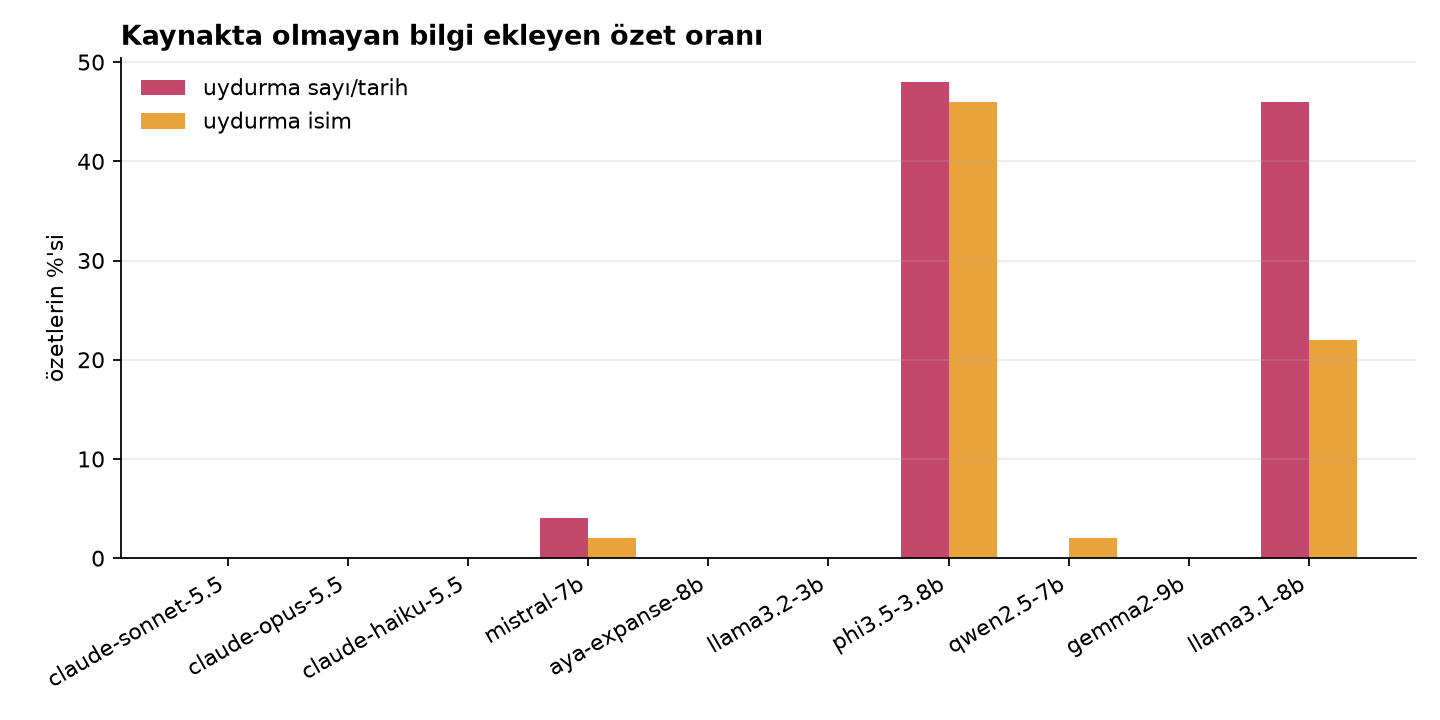
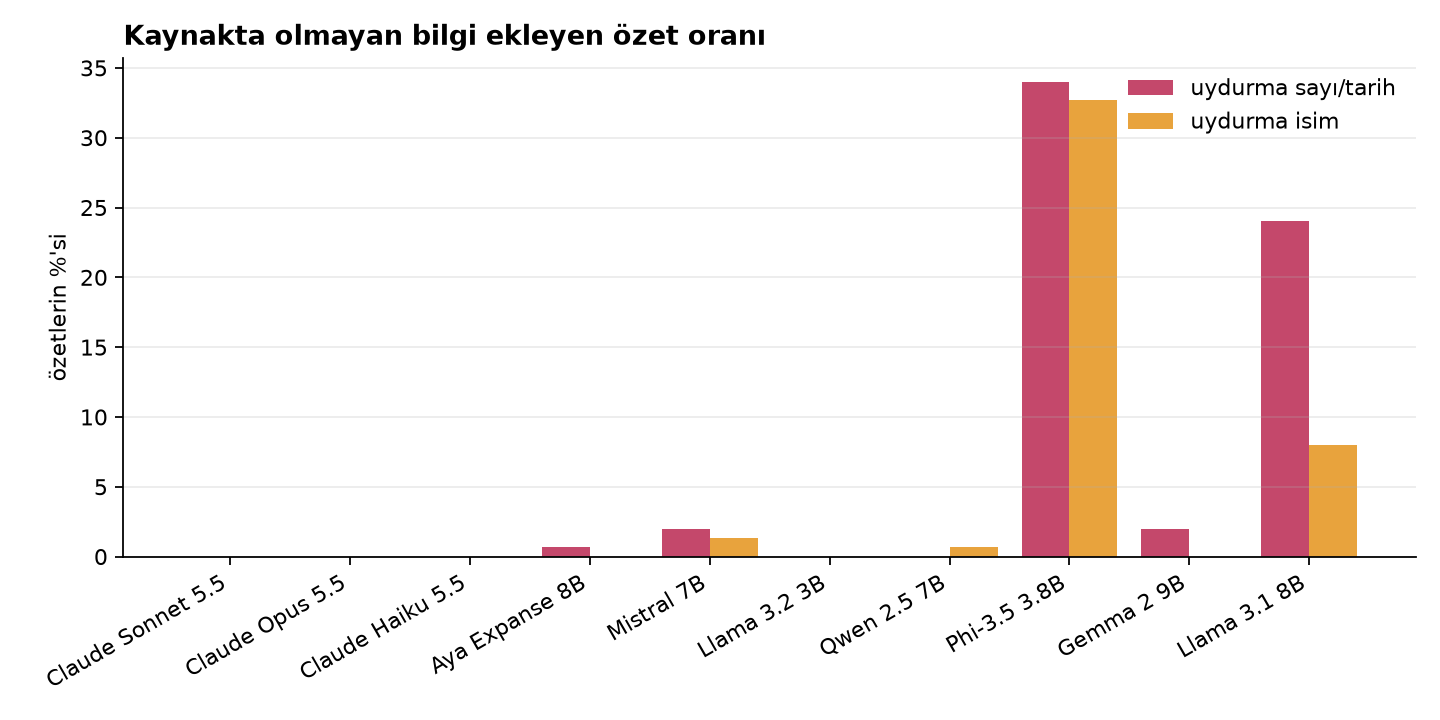
Show readable model names and plot accuracy against time per correct answer

diff --git a/benchmark/scripts/grafik.py b/benchmark/scripts/grafik.py
@@ -1,7 +1,8 @@
 """sonuclar/puanli.csv'den grafikler üretir → grafikler/*.png
 
-  1_model_kategori.png   model × kategori doğruluk (gruplu çubuk)
-  2_maliyet_dogruluk.png doğruluk ve doğru cevap başına maliyet tek grafikte
+  1_model_kategori.png   model × kategori doğruluk, insan soruları (gruplu çubuk)
+  1b_model_kategori_ai.png  aynısı, AI soruları
+  2_maliyet_dogruluk.png doğruluk ve doğru cevap başına süre (bütün koşular ücretsiz olduğu için maliyet yerine süre)
   3_insan_ai.png         insan vs AI sorularında doğruluk
   4_halusinasyon.png     uydurma sayı / isim oranı
 
@@ -18,11 +19,16 @@ from ortak import ROOT, SONUC, oku  # noqa: E402
 OUT = ROOT / "grafikler"
 OUT.mkdir(exist_ok=True)
 RENK = ["#2a78d6", "#1baf7a", "#e8a33d", "#c4486b", "#7a5bd6"]
+AD = {"claude-opus-5.5": "Claude Opus 5.5", "claude-sonnet-5.5": "Claude Sonnet 5.5", "claude-haiku-5.5": "Claude Haiku 5.5",
+      "mistral-7b": "Mistral 7B", "aya-expanse-8b": "Aya Expanse 8B", "llama3.2-3b": "Llama 3.2 3B",
+      "phi3.5-3.8b": "Phi-3.5 3.8B", "qwen2.5-7b": "Qwen 2.5 7B", "gemma2-9b": "Gemma 2 9B", "llama3.1-8b": "Llama 3.1 8B",
+      "gemini-4-neon": "Gemini 4 Neon"}
+GRUP_AD = {"insan": "İnsan yazımı (100)", "ai": "AI yazımı (50)"}
 
 rows = [r for r in oku(SONUC / "puanli.csv") if str(r["deneme"]) == "1"]
 modeller = sorted({r["model"] for r in rows},
-                  key=lambda m: -sum(int(r["dogru_mu"]) for r in rows if r["model"] == m)
-                  / max(1, sum(r["model"] == m for r in rows)))
+                  key=lambda m: (-sum(int(r["dogru_mu"]) for r in rows if r["model"] == m)
+                                 / max(1, sum(r["model"] == m for r in rows)), m))
 
 
 def oran(f, **kosul):
@@ -41,40 +47,48 @@ def stil(ax, baslik, ylabel):
     ax.grid(axis="y", alpha=0.25)
 
 
-def gruplu(dosya, baslik, anahtar):
-    gruplar = sorted({r[anahtar] for r in rows})
-    fig, ax = plt.subplots(figsize=(max(8, len(modeller) * 0.9), 4.5))
+def gruplu(dosya, baslik, anahtar, **filtre):
+    gruplar = sorted({r[anahtar] for r in rows if all(r[k] == v for k, v in filtre.items())})
+    fig, ax = plt.subplots(figsize=(max(8, len(modeller) * 0.9), 5.2))
     w = 0.8 / len(gruplar)
     for i, g in enumerate(gruplar):
         xs = [j + i * w - 0.4 + w / 2 for j in range(len(modeller))]
-        ax.bar(xs, [oran(dogru, model=m, **{anahtar: g}) for m in modeller], w,
-               label=g, color=RENK[i % len(RENK)])
-    ax.set_xticks(range(len(modeller)), modeller, rotation=30, ha="right")
+        ax.bar(xs, [oran(dogru, model=m, **{anahtar: g}, **filtre) for m in modeller], w,
+               label=GRUP_AD.get(g, g), color=RENK[i % len(RENK)])
+    ax.set_xticks(range(len(modeller)), [AD.get(m, m) for m in modeller], rotation=30, ha="right")
     ax.set_ylim(0, 100)
     stil(ax, baslik, "doğruluk (%)")
-    ax.legend(frameon=False, ncol=len(gruplar))
+    ax.legend(frameon=False, ncol=min(len(gruplar), 5), loc="upper center", bbox_to_anchor=(0.5, -0.32), fontsize=9)
     fig.tight_layout()
     fig.savefig(OUT / dosya, dpi=160)
     plt.close(fig)
 
 
-gruplu("1_model_kategori.png", "Model × kategori: doğru özet oranı", "kategori")
+gruplu("1_model_kategori.png", "Model × kategori (insan yazımı 100 soru): doğru özet oranı", "kategori", kaynak="insan")
+gruplu("1b_model_kategori_ai.png", "Model × kategori (AI yazımı 50 soru): doğru özet oranı", "kategori", kaynak="ai")
 gruplu("3_insan_ai.png", "İnsan vs AI yazımı sorular", "kaynak")
 
-# 2) maliyet
-fig, ax = plt.subplots(figsize=(8, 5))
+# 2) doğruluk vs süre: koşuların hepsi ücretsiz (yerel model ya da abonelik arayüzü), Task 4'ün izin verdiği gibi süre kullanılır
+fig, ax = plt.subplots(figsize=(9, 5.2))
+olcusuz = []
 for m in modeller:
-    rs = [r for r in rows if r["model"] == m]
+    rs = [r for r in rows if r["model"] == m and r["sure_sn"]]
+    if not rs:
+        olcusuz.append(AD.get(m, m))
+        continue
     acc = oran(dogru, model=m)
-    toplam = sum(float(r["tahmini_maliyet"] or 0) for r in rs)
     n_dogru = sum(dogru(r) for r in rs)
-    kd = toplam / n_dogru if n_dogru else 0
-    ax.scatter(kd * 1000, acc, s=70, color="#2a78d6" if toplam else "#1baf7a", zorder=3)
-    ax.annotate(m, (kd * 1000, acc), xytext=(6, 4), textcoords="offset points", fontsize=9)
-ax.set_xlabel("doğru cevap başına maliyet ($ / 1000 doğru)  ·  yeşil = ücretsiz / yerel")
-ax.set_ylim(0, 100)
-stil(ax, "Doğruluk vs maliyet", "doğruluk (%)")
+    sn = sum(float(r["sure_sn"]) for r in rs) / max(1, n_dogru)
+    ax.scatter(sn, acc, s=70, color="#2a78d6" if m.startswith("gemini") else "#1baf7a", zorder=3)
+    ax.annotate(AD.get(m, m), (sn, acc), xytext=(6, 4), textcoords="offset points", fontsize=9)
+ax.set_xscale("log")
+ax.set_xlabel("doğru cevap başına süre (saniye, log ölçek)  ·  yeşil = yerel (Apple M4), mavi = web arayüzü")
+ax.set_ylim(0, 105)
+stil(ax, "Doğruluk vs doğru cevap başına süre (maliyet: hepsi 0 TL)", "doğruluk (%)")
 ax.grid(alpha=0.25)
+if olcusuz:
+    ax.text(0.99, 0.02, "süre ölçülmedi: " + ", ".join(olcusuz), transform=ax.transAxes, ha="right", va="bottom",
+            fontsize=8, color="#5f6368")
 fig.tight_layout()
 fig.savefig(OUT / "2_maliyet_dogruluk.png", dpi=160)
 plt.close(fig)
@@ -86,11 +100,11 @@ ax.bar([x - 0.2 for x in xs], [oran(lambda r: bool(r["halu_sayi"]), model=m) for
        0.4, label="uydurma sayı/tarih", color="#c4486b")
 ax.bar([x + 0.2 for x in xs], [oran(lambda r: bool(r["halu_ad"]), model=m) for m in modeller],
        0.4, label="uydurma isim", color="#e8a33d")
-ax.set_xticks(list(xs), modeller, rotation=30, ha="right")
+ax.set_xticks(list(xs), [AD.get(m, m) for m in modeller], rotation=30, ha="right")
 stil(ax, "Kaynakta olmayan bilgi ekleyen özet oranı", "özetlerin %'si")
 ax.legend(frameon=False)
 fig.tight_layout()
 fig.savefig(OUT / "4_halusinasyon.png", dpi=160)
 plt.close(fig)
 
-print("✓ grafikler/ altına 4 PNG yazıldı:", ", ".join(p.name for p in sorted(OUT.glob("*.png"))))
+print("✓ grafikler/:", ", ".join(p.name for p in sorted(OUT.glob("*.png"))))

diff --git a/benchmark/scripts/tablo.py b/benchmark/scripts/tablo.py
@@ -14,7 +14,8 @@ from ortak import ROOT, SONUC, oku  # noqa: E402
 
 AD = {"claude-opus-5.5": "Claude\nOpus 5.5", "claude-sonnet-5.5": "Claude\nSonnet 5.5", "claude-haiku-5.5": "Claude\nHaiku 5.5",
       "mistral-7b": "Mistral\n7B", "aya-expanse-8b": "Aya\nExpanse 8B", "llama3.2-3b": "Llama 3.2\n3B",
-      "phi3.5-3.8b": "Phi-3.5\n3.8B", "qwen2.5-7b": "Qwen 2.5\n7B", "gemma2-9b": "Gemma 2\n9B", "llama3.1-8b": "Llama 3.1\n8B"}
+      "phi3.5-3.8b": "Phi-3.5\n3.8B", "qwen2.5-7b": "Qwen 2.5\n7B", "gemma2-9b": "Gemma 2\n9B", "llama3.1-8b": "Llama 3.1\n8B",
+      "gemini-4-neon": "Gemini\n4 Neon"}
 
 ana = [r for r in oku(SONUC / "puanli.csv") if str(r["deneme"]) == "1"]
 viki = oku(SONUC / "puanli_viki.csv")
@@ -26,11 +27,16 @@ def ort(rows, f, **k):
     return sum(xs) / len(xs) if xs else None
 
 
+def yuz(rows, f, **k):
+    v = ort(rows, f, **k)
+    return None if v is None else 100 * v
+
+
 def dogru(r):
     return int(r["dogru_mu"])
 
 
-modeller = sorted(AD, key=lambda m: -(ort(ana, dogru, model=m) or 0))
+modeller = sorted(AD, key=lambda m: (-(ort(ana, dogru, model=m) or 0), m))
 
 # kararsızlık: 3 denemede sonucu değişen soru oranı
 kararsiz = {}
@@ -54,24 +60,25 @@ def satir(f):
 pct = lambda v: f"{v:.0f}%"  # noqa: E731
 # (grup_tr, grup_en, ölçüm_tr, ölçüm_en, alt_tr, alt_en, değerler, biçim, büyük_iyi)
 SATIRLAR = [
-    ("Genel", "Overall", "Doğruluk", "Accuracy", "50 kurgusal paragraf", "50 fictional paragraphs",
-     satir(lambda m: 100 * ort(ana, dogru, model=m)), pct, True),
+    ("Genel", "Overall", "Doğruluk", "Accuracy", "150 kurgusal paragraf", "150 fictional paragraphs",
+     satir(lambda m: yuz(ana, dogru, model=m)), pct, True),
     ("", "", "Korunan bilgi", "Facts kept", "3 üzerinden", "out of 3",
      satir(lambda m: ort(ana, lambda r: int(r["olgu_bulunan"]), model=m)), lambda v: f"{v:.2f}", True),
-    ("Kategori", "Category", "Haber", "News", "", "", satir(lambda m: 100 * ort(ana, dogru, model=m, kategori="haber")), pct, True),
-    ("", "", "Bilim", "Science", "", "", satir(lambda m: 100 * ort(ana, dogru, model=m, kategori="bilim")), pct, True),
-    ("", "", "Spor", "Sports", "", "", satir(lambda m: 100 * ort(ana, dogru, model=m, kategori="spor")), pct, True),
-    ("Zorluk", "Difficulty", "Zorluk 1", "Level 1", "sade metin", "plain text", satir(lambda m: 100 * ort(ana, dogru, model=m, zorluk="1")), pct, True),
-    ("", "", "Zorluk 2", "Level 2", "çeldirici", "distractors", satir(lambda m: 100 * ort(ana, dogru, model=m, zorluk="2")), pct, True),
-    ("", "", "Zorluk 3", "Level 3", "tuzak", "trap", satir(lambda m: 100 * ort(ana, dogru, model=m, zorluk="3")), pct, True),
+    ("Soru kaynağı", "Question source", "İnsan yazımı", "Human-written", "100 soru", "100 questions",
+     satir(lambda m: yuz(ana, dogru, model=m, kaynak="insan")), pct, True),
+    ("", "", "AI yazımı", "AI-written", "50 soru", "50 questions",
+     satir(lambda m: yuz(ana, dogru, model=m, kaynak="ai")), pct, True),
+    ("Zorluk", "Difficulty", "Zorluk 1", "Level 1", "sade metin", "plain text", satir(lambda m: yuz(ana, dogru, model=m, zorluk="1")), pct, True),
+    ("", "", "Zorluk 2", "Level 2", "çeldirici", "distractors", satir(lambda m: yuz(ana, dogru, model=m, zorluk="2")), pct, True),
+    ("", "", "Zorluk 3", "Level 3", "tuzak", "trap", satir(lambda m: yuz(ana, dogru, model=m, zorluk="3")), pct, True),
     ("Halüsinasyon", "Hallucination", "Uydurma sayı/tarih", "Invented number/date", "düşük daha iyi", "lower is better",
-     satir(lambda m: 100 * ort(ana, lambda r: int(bool(r["halu_sayi"])), model=m)), pct, False),
+     satir(lambda m: yuz(ana, lambda r: int(bool(r["halu_sayi"])), model=m)), pct, False),
     ("", "", "Uydurma isim", "Invented name", "düşük daha iyi", "lower is better",
-     satir(lambda m: 100 * ort(ana, lambda r: int(bool(r["halu_ad"])), model=m)), pct, False),
+     satir(lambda m: yuz(ana, lambda r: int(bool(r["halu_ad"])), model=m)), pct, False),
     ("Gerçek metin", "Real text", "Vikipedi, orijinal", "Wikipedia, original", "25 metin", "25 texts",
-     satir(lambda m: 100 * ort([r for r in viki if r["soru_id"].startswith("viki")], dogru, model=m)), pct, True),
+     satir(lambda m: yuz([r for r in viki if r["soru_id"].startswith("viki")], dogru, model=m)), pct, True),
     ("", "", "Vikipedi, değiştirilmiş", "Wikipedia, altered", "ezber tuzağı", "memorization trap",
-     satir(lambda m: 100 * ort([r for r in viki if r["soru_id"].startswith("vikd")], dogru, model=m)), pct, True),
+     satir(lambda m: yuz([r for r in viki if r["soru_id"].startswith("vikd")], dogru, model=m)), pct, True),
     ("Kararlılık", "Stability", "Kararsızlık", "Instability", "sıcaklık 0.7, 3 deneme", "temperature 0.7, 3 runs",
      satir(lambda m: kararsiz.get(m)), pct, False),
     ("Hız", "Speed", "Soru başına süre", "Time per question", "Apple M4, saniye", "Apple M4, seconds",

diff --git a/benchmark/scripts/sablondan_csv.py b/benchmark/scripts/sablondan_csv.py
@@ -1,0 +1,71 @@
+"""Telefondan/elle doldurulan Markdown şablonunu soru CSV'sine çevirir.
+
+Şablon her soru için bir blok içerir:
+
+    ### oz-001 · haber · zorluk 1
+    Paragraf: <4-6 cümle>
+    Sayı: <paragraftaki sayı>
+    Tarih: <paragraftaki tarih>
+    İsim: <paragraftaki ad soyad>
+    Not: <isteğe bağlı, ör. hangi tuzak>
+
+Boş bırakılan bloklar atlanır. Metne dokunulmaz; yalnızca biçim kontrol edilir.
+
+Kullanım (benchmark klasöründen):
+  python3 scripts/sablondan_csv.py ../notlar/insan_sorulari.md data/sorular_insan.csv
+  python3 scripts/sablondan_csv.py ../notlar/nexa_bench_sorulari.md /yol/nexa-bench/sorular/foqunty.csv
+  python3 scripts/sablondan_csv.py sablon.md cikti.csv ai     # üçüncü argüman: kaynak (insan | ai, varsayılan insan)
+"""
+import csv
+import re
+import sys
+
+from ortak import SORU_COLS, normal
+from puanla import olgu_var_mi
+
+BASLIK = re.compile(r"^###\s+(\S+)\s+·\s+(\S+)\s+·\s+zorluk\s+([123])", re.M)
+ALAN = re.compile(r"^(Paragraf|Sayı|Tarih|İsim|Not):[ \t]*(.*)$", re.M)
+
+
+def bloklar(metin):
+    bas = list(BASLIK.finditer(metin))
+    for i, m in enumerate(bas):
+        son = bas[i + 1].start() if i + 1 < len(bas) else len(metin)
+        alanlar = {k: v.strip() for k, v in ALAN.findall(metin[m.end():son])}
+        yield m.group(1), m.group(2), m.group(3), alanlar
+
+
+def main(girdi, cikti, kaynak="insan"):
+    if kaynak not in ("insan", "ai"):
+        sys.exit("kaynak 'insan' ya da 'ai' olmalı")
+    satirlar, sorunlar = [], []
+    for sid, kat, zor, a in bloklar(open(girdi, encoding="utf-8").read()):
+        p = a.get("Paragraf", "")
+        olgular = [a.get(k, "") for k in ("Sayı", "Tarih", "İsim")]
+        if not p and not any(olgular):
+            continue  # henüz yazılmamış
+        eksik = [k for k, v in zip(("Sayı", "Tarih", "İsim"), olgular) if not v]
+        if not p or eksik:
+            sorunlar.append(f"{sid}: eksik alan {eksik or ['Paragraf']}")
+            continue
+        n, t, sy = normal(p)
+        for o in olgular:
+            if not olgu_var_mi(o, n, t, sy):
+                sorunlar.append(f"{sid}: '{o}' paragrafta bire bir geçmiyor")
+        if not 200 <= len(p) <= 1200:
+            sorunlar.append(f"{sid}: paragraf {len(p)} karakter (200–1200 olmalı)")
+        satirlar.append(dict(id=sid, tur="metin", alan="özet", kategori=kat, zorluk=zor, dil="tr",
+                             kaynak=kaynak, soru=p, dogru_cevap="; ".join(olgular),
+                             puanlama="kontrol_listesi", tolerans="", **{"not": a.get("Not", "")}))
+    with open(cikti, "w", encoding="utf-8", newline="") as f:
+        w = csv.DictWriter(f, fieldnames=SORU_COLS)
+        w.writeheader()
+        w.writerows(satirlar)
+    print(f"{len(satirlar)} soru yazıldı → {cikti}")
+    for s in sorunlar:
+        print("  !", s)
+    return 1 if sorunlar else 0
+
+
+if __name__ == "__main__":
+    sys.exit(main(*sys.argv[1:4]))
